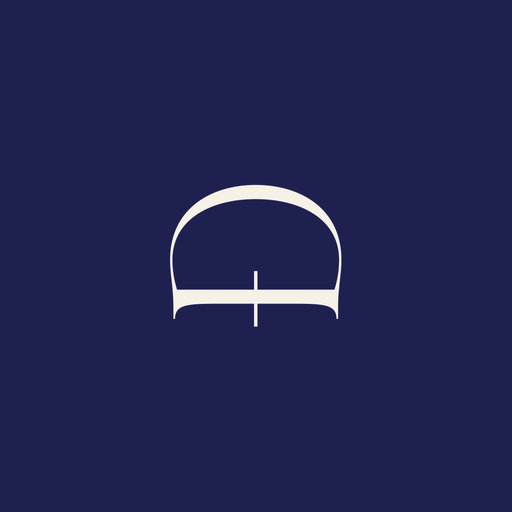
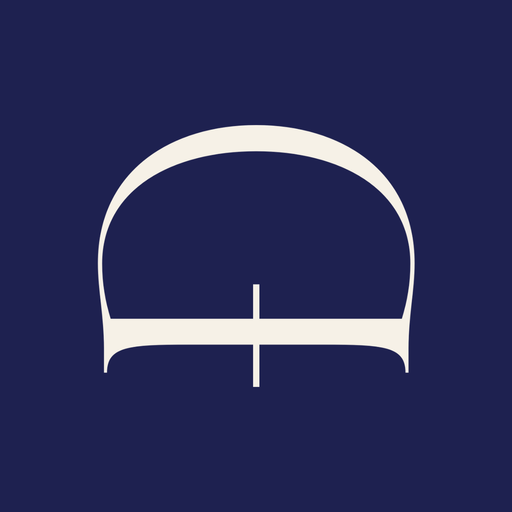
Le pictogramme dans toutes les encres, et des raccourcis qu'on distingue
PICTOGRAMME. Les cinq fichiers portaient EXACTEMENT le meme dessin, seule
l'encre changeait : leur couche de transparence est identique au bit pres. Une
encre de plus ne se dessine donc pas, elle se verse. fabrique-les-pictogrammes
lit les couleurs dans src/ds/tokens/colors.css, la seule source, et ajoute
l'indigo profond, le sable et l'argile. Il ne reecrit pas ce qui est deja juste,
pour ne pas obliger a republier sept sites contre des octets identiques.

RACCOURCIS. L'icone du portail portait un pictogramme INDIGO sur un champ
OBSIDIENNE : 1,2 de contraste, une tuile noire ou l'on ne voyait rien. Et
l'obsidienne comme fond est contraire a la regle de la Maison.

« Bien distinct » se mesure. Un premier essai donnait l'indigo a la Maison et
l'indigo PROFOND au Trone : neuf points d'ecart percu en Lab, deux tuiles que
l'oeil confond a soixante pixels. On a calcule l'ecart entre toutes les paires
de champs de la charte. Ma Couronne et Le Trone s'opposent maintenant deux
fois, par le champ (cuivre contre or) ET par l'encre (claire contre sombre).

Le pictogramme passe de 45 a 62 % de la tuile, et a 50 % sur les tuiles
masquables, dont Android ne garantit que les 80 % du centre. Le fabricant
relit le rapport du pictogramme dans la tuile rendue et refuse d'ecrire s'il
l'a deforme.

QR CODES. Les cartes A5 et l'affichage au comptoir portaient le nom en
capitales espacees ; ils portent le verrou, comme les papiers et le site.
[…]

Changed region(s): [[0.1875, 0.2188, 0.8125, 0.75]]

diff --git a/src/apps/trone/routes/clients/QrCodes.tsx b/src/apps/trone/routes/clients/QrCodes.tsx
@@ -6,7 +6,7 @@ import { useBranch } from '../../../../shared/branches';
 import { toast, demandeUnTexte } from '../../../../ds/components';
 import { PageHead } from '../_ui';
 import { useStore } from '../../../../shared/store';
-import { maisonNom, DEVISE_COMPLETE, signeLeMessage } from '../../../../shared/identite';
+import { maisonNom, DEVISE_COMPLETE, signeLeMessage, estLaMaisonMND } from '../../../../shared/identite';
 import { autoConfigStore, MOMO_QR_DEFAUT, REVIEW_LINK_DEFAUT, MOMO_USSD_DEFAUT, MOMO_MARCHAND_DEFAUT } from '../equipe/data';
 import { usePointageConfig } from '../equipe/payroll';
 import { QrSvg, qrMatrice, lienDuJour } from '../equipe/Comptoir';
@@ -50,8 +50,22 @@ const escHtml = (s: string): string =>
 const wifiPayload = (ssid: string, pass: string) =>
   `WIFI:T:WPA;S:${escWifi(ssid)};P:${escWifi(pass)};;`;
 
+/* LE VERROU EN TÊTE DES CARTES — 25 septembre 2026. Ces cartes portaient le
+   nom de la Maison en capitales espacées ; elles portent maintenant le verrou,
+   comme les papiers et le site.
+
+   L'ADRESSE EST ABSOLUE, et ce n'est pas un détail : la carte s'imprime dans
+   une fenêtre ouverte sur `about:blank` et remplie par `document.write`. Cette
+   fenêtre n'a pas d'adresse à elle, un chemin relatif n'y mène nulle part.
+
+   Et le verrou ne se pose que si le nom est bien celui de la Maison : ailleurs,
+   il nommerait une maison qui n'est pas la sienne. */
+const verrouDeLaMaison = (): string | null => (estLaMaisonMND(maisonNom())
+  ? new URL(asset('assets/verrous/verrou-couche-indigo.png'), window.location.href).href
+  : null);
+
 /* Le gabarit A5 partagé des cartes imprimées — comptoir, miroir, table. */
-const carteA5 = (o: { titre: string; sous: string; qr: string; grand?: string; sousGrand?: string; etapes: string[]; ariaQr: string }) => {
+const carteA5 = (o: { titre: string; sous: string; qr: string; grand?: string; sousGrand?: string; etapes: string[]; ariaQr: string; verrou?: string | null }) => {
   const { path, n } = qrMatrice(o.qr);
   return `<!doctype html><html lang="fr"><head><meta charset="utf-8" />
 <title>${escHtml(maisonNom())}, ${escHtml(o.titre)}</title>
@@ -64,6 +78,9 @@ const carteA5 = (o: { titre: string; sous: string; qr: string; grand?: string; s
            display: flex; flex-direction: column; align-items: center; text-align: center;
            border: 1px solid rgba(20,20,27,.14); outline: 2px solid #B97A4A; outline-offset: -6mm; }
   .marque { font-size: 13px; font-weight: 600; letter-spacing: .34em; color: #1E2150; }
+  /* 46 mm : bien au-dessus du plancher du verrou (33 mm), et 40 % de la
+     largeur utile de la carte. */
+  .verrou { width: 46mm; height: auto; display: block; margin: 0 auto; }
   .titre { font-family: 'Cormorant Garamond', serif; font-weight: 300; font-size: 38px; color: #1E2150; margin: 10mm 0 2mm; }
   .sous { font-family: 'Cormorant Garamond', serif; font-style: italic; font-size: 16px; color: #45454F; max-width: 96mm; line-height: 1.5; }
   .qr { width: 64mm; height: 64mm; margin: 10mm 0 6mm; }
@@ -74,7 +91,8 @@ const carteA5 = (o: { titre: string; sous: string; qr: string; grand?: string; s
   .devise { margin-top: auto; font-family: 'Cormorant Garamond', serif; font-style: italic; font-size: 14px; color: #9E6238; }
 </style></head><body>
   <div class="carte">
-    <div class="marque">${escHtml(maisonNom().toUpperCase())}</div>
+    ${o.verrou ? `<img class="verrou" src="${escHtml(o.verrou)}" alt="${escHtml(maisonNom())}" />`
+      : `<div class="marque">${escHtml(maisonNom().toUpperCase())}</div>`}
     <div class="titre">${escHtml(o.titre)}</div>
     <div class="sous">${escHtml(o.sous)}</div>
     <svg class="qr" viewBox="-2 -2 ${n + 4} ${n + 4}" role="img" aria-label="${escHtml(o.ariaQr)}">
@@ -215,6 +233,7 @@ function BoxWifi({ rang, portee, ssid, pass, pose, surComptoir }: {
   const valeur = pret ? wifiPayload(ssid.trim(), pass.trim()) : '';
 
   const imprimer = () => imprime(carteA5({
+    verrou: verrouDeLaMaison(),
     titre: 'Installez-vous.',
     sous: 'Le réseau de la Maison est à vous, scannez, votre téléphone se connecte seul.',
     qr: valeur,
@@ -294,9 +313,18 @@ function AuComptoir({ g, onClose }: { g: Grand; onClose: () => void }) {
         padding: '24px 20px', animation: 'mnd-fade var(--dur-base) var(--ease-soft)',
       }}
     >
-      <div style={{ fontSize: 13, fontWeight: 600, letterSpacing: '.34em', color: '#1E2150' }}>
-        {maisonNom().toUpperCase()}
-      </div>
+      {estLaMaisonMND(maisonNom()) ? (
+        /* Le verrou, jamais sous son plancher : 150 px au plus petit. */
+        <img
+          src={asset('assets/verrous/verrou-couche-indigo.png')}
+          alt={maisonNom()}
+          style={{ width: 'clamp(150px, 18vw, 260px)', height: 'auto', display: 'block' }}
+        />
+      ) : (
+        <div style={{ fontSize: 13, fontWeight: 600, letterSpacing: '.34em', color: '#1E2150' }}>
+          {maisonNom().toUpperCase()}
+        </div>
+      )}
       <div style={{ fontFamily: 'var(--font-serif)', fontWeight: 300, fontSize: 'clamp(30px, 5vw, 46px)', color: '#1E2150', margin: '12px 0 2px', textAlign: 'center' }}>
         {g.titre}
       </div>
@@ -473,6 +501,7 @@ export default function QrCodes() {
   );
 
   const imprimerMomo = () => imprime(carteA5({
+    verrou: verrouDeLaMaison(),
     titre: 'Régler par MoMo.',
     sous: 'Scannez avec l’application MoMo, ou composez le code, le montant en francs.',
     qr: momoQr,
@@ -549,6 +578,7 @@ export default function QrCodes() {
                  celui-ci doit tenir seul derrière une vitre, de nuit, quand
                  l'atelier est fermé. C'est le seul des neuf codes dans ce cas. */
               { texte: 'Imprimer l’affiche', faire: () => imprime(carteA5({
+                verrou: verrouDeLaMaison(),
                 titre: 'La Maison, en entier.',
                 sous: 'Nos gestes, nos parcours, nos avis, et la prise de rendez-vous.',
                 qr: lienSite,

diff --git a/src/shared/pdf.ts b/src/shared/pdf.ts
@@ -5,7 +5,7 @@
    chat pré-rempli pour que l'utilisateur joigne le fichier en un geste. */
 
 import qrcode from 'qrcode-generator';
-import { maisonNom, DEVISE_COMPLETE, corrigeLAncienNom, DEFAULT_IDENTITY } from './identite';
+import { maisonNom, DEVISE_COMPLETE, estLaMaisonMND } from './identite';
 import { DEVISE_FON_B64 } from './devise-fon-b64';
 import { estIdentifiantMomo } from './momo';
 
@@ -320,12 +320,6 @@ function chargeVerrou(encre: string): Promise<string | null> {
   return VERROUS[encre];
 }
 
-/** Le papier porte-t-il bien le nom de la Maison ? « L'atelier MND », l'ancien
-    nom, compte pour oui : c'est la même maison, et la migration le corrigera. */
-const estLaMaison = (nom: unknown): boolean =>
-  (corrigeLAncienNom(nom) ?? String(nom ?? '')).trim().toLowerCase()
-    === DEFAULT_IDENTITY.nom.toLowerCase();
-
 /** POSE LE VERROU COUCHÉ, et rend la hauteur qu'il occupe.
     Rend `null` si l'image manque : l'appelant repose alors le monogramme et
     écrit le nom, comme avant. Un papier sort toujours, avec ou sans réseau.
@@ -631,7 +625,7 @@ async function construitLaFacture(d: InvoicePdfData): Promise<{ doc: any; filena
   let y = 22;
 
   // — Entête : le verrou de la Maison, pictogramme et nom d'un seul tenant —
-  const hVerrou = estLaMaison(d.houseName) ? await poseLeVerrou(doc, M, 12, 46) : null;
+  const hVerrou = estLaMaisonMND(d.houseName) ? await poseLeVerrou(doc, M, 12, 46) : null;
   let sousX = M;
   let sousY = 12 + (hVerrou ?? 0) + 4.5;
   if (hVerrou === null) {
@@ -916,7 +910,7 @@ export async function receiptPdf(d: ReceiptPdfData): Promise<string> {
 
   /* Le reçu est un A5 couché : le verrou y tient à quarante millimètres, au-dessus
      du plancher, et laisse la moitié droite au montant. */
-  const hVerrou = estLaMaison(d.houseName) ? await poseLeVerrou(doc, M, 10, 40) : null;
+  const hVerrou = estLaMaisonMND(d.houseName) ? await poseLeVerrou(doc, M, 10, 40) : null;
   let sousX = M;
   let sousY = 10 + (hVerrou ?? 0) + 4;
   if (hVerrou === null) {
@@ -1077,7 +1071,7 @@ export async function contratPdf(o: {
      à côté d'un verrou de quarante-six millimètres, un titre long n'aurait
      plus eu la place d'un monogramme de vingt-deux. */
   const hautDeLEntete = y - 10;
-  const hVerrou = estLaMaison(o.houseName) ? await poseLeVerrou(doc, M, hautDeLEntete, 46) : null;
+  const hVerrou = estLaMaisonMND(o.houseName) ? await poseLeVerrou(doc, M, hautDeLEntete, 46) : null;
   let gauche = M;
   if (hVerrou === null) {
     /* LE REPLI, EN CUIVRE. Le cuivre ponctue, l'indigo structure : la marque
@@ -1258,7 +1252,7 @@ export async function facturePrestatairePdf(o: {
 
   /* LE VERROU PREND LA PREMIÈRE LIGNE, le mot FACTURE passe dessous. */
   const hautDeLEntete = y - 10;
-  const hVerrou = estLaMaison(o.houseName) ? await poseLeVerrou(doc, M, hautDeLEntete, 46) : null;
+  const hVerrou = estLaMaisonMND(o.houseName) ? await poseLeVerrou(doc, M, hautDeLEntete, 46) : null;
   let gauche = M;
   if (hVerrou === null) {
     const seal = await loadSeal();
@@ -1682,7 +1676,7 @@ async function construitLeBulletin(d: PayslipData): Promise<{ doc: any; filename
   let y = 22;
 
   // — En-tête : le verrou de la Maison —
-  const hVerrou = estLaMaison(d.houseName) ? await poseLeVerrou(doc, M, 12, 46) : null;
+  const hVerrou = estLaMaisonMND(d.houseName) ? await poseLeVerrou(doc, M, 12, 46) : null;
   let sousX = M;
   let sousY = 12 + (hVerrou ?? 0) + 4.5;
   if (hVerrou === null) {

diff --git a/src/shared/identite.ts b/src/shared/identite.ts
@@ -152,6 +152,16 @@ const ANCIEN_NOM = /^\s*l\s*[’']\s*atelier\s+mnd\s*$/i;
     toutes ses graphies devient le nom par défaut ; tout autre nom reste. */
 export const corrigeLAncienNom = (nom: unknown): string | null =>
   ANCIEN_NOM.test(String(nom ?? '')) ? DEFAULT_IDENTITY.nom : null;
+/** CE PAPIER, CET ÉCRAN, SONT-ILS BIEN CEUX DE LA MAISON ? — 25 septembre
+    2026. Le verrou (pictogramme + MAISON MND) ne se pose que là où le nom est
+    celui de la Maison : ailleurs, il nommerait une maison qui n'est pas la
+    sienne, et l'on repose le pictogramme avec le nom écrit. « L'atelier MND »,
+    l'ancien nom, compte pour oui : c'est la même maison, et la migration
+    ci-dessous le corrigera. */
+export const estLaMaisonMND = (nom: unknown): boolean =>
+  (corrigeLAncienNom(nom) ?? String(nom ?? '')).trim().toLowerCase()
+    === DEFAULT_IDENTITY.nom.toLowerCase();
+
 const MARQUEUR_NOM = 'mnd_nom_maison_2026_09';
 const EXPIRE_LE = Date.parse('2026-12-31T23:59:59+01:00');
 const dejaMigre = (marqueur = MARQUEUR_NOM): boolean => { try { return !!localStorage.getItem(marqueur); } catch { return false; } };
